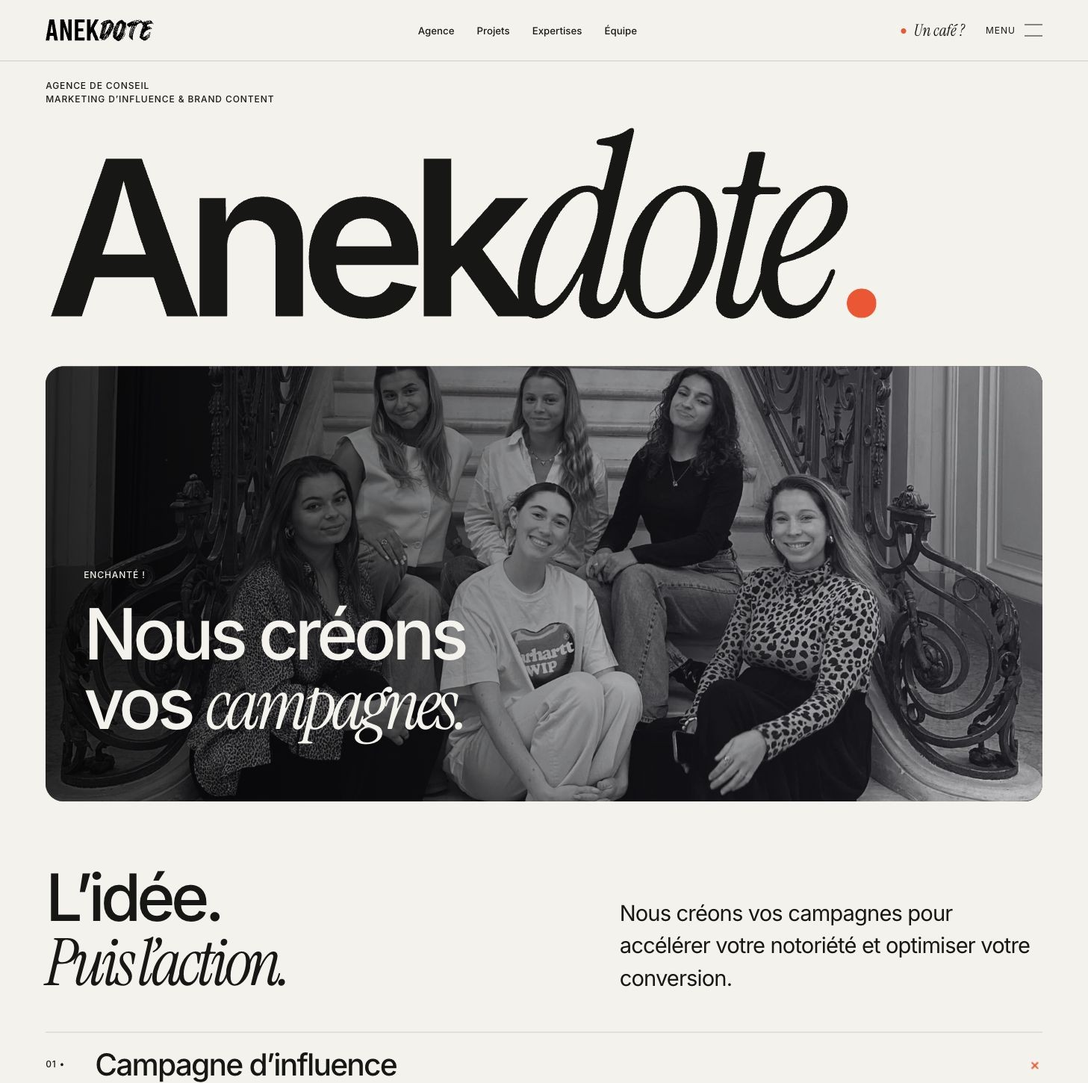
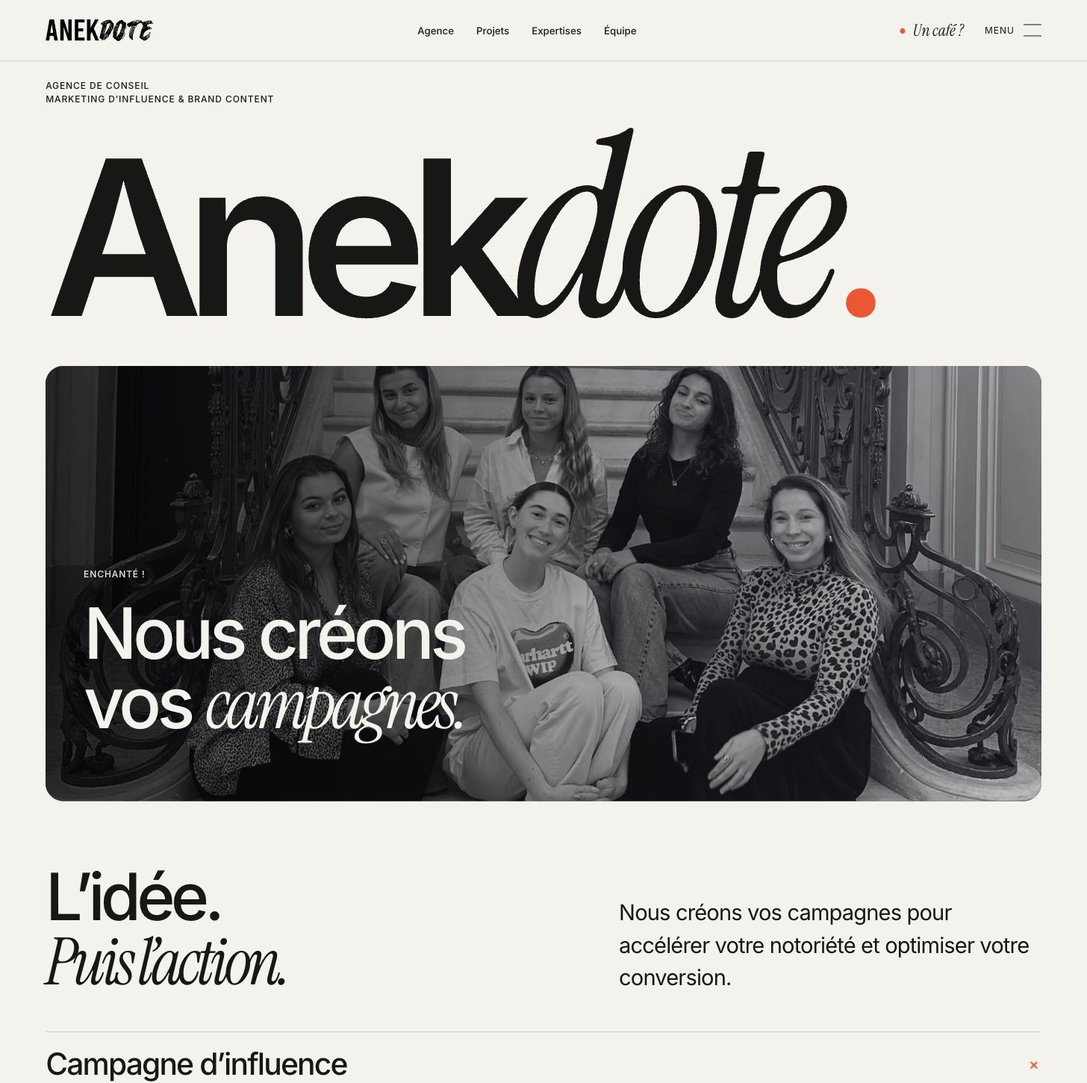
Retirer les six index de l’accordéon d’accueil et aligner les titres

diff --git a/index.html b/index.html
@@ -1,1 +1,1 @@
-<!doctype html><html lang="fr"><head><meta charset="utf-8"><meta name="viewport" content="width=device-width, initial-scale=1"><meta name="theme-color" content="#f4f2eb"><title>Anekdote | Agence de conseil en Marketing d&#x27;Influence &amp; Brand Content</title><meta name="description" content="Anekdote crée vos campagnes d&#x27;influence et de brand content pour accélérer votre notoriété et optimiser votre conversion."><link rel="canonical" href="https://www.anekdote.fr/"><meta property="og:title" content="Anekdote | Agence de conseil en Marketing d&#x27;Influence &amp; Brand Content"><meta property="og:description" content="Anekdote crée vos campagnes d&#x27;influence et de brand content pour accélérer votre notoriété et optimiser votre conversion."><meta property="og:type" content="website"><meta property="og:url" content="https://www.anekdote.fr/"><link rel="stylesheet" href="css/fonts.css"><link rel="stylesheet" href="css/variables.css"><link rel="stylesheet" href="css/reset.css"><link rel="stylesheet" href="css/typography.css"><link rel="stylesheet" href="css/layout.css"><link rel="stylesheet" href="css/components.css"><link rel="stylesheet" href="css/animations.css"><link rel="stylesheet" href="css/responsive.css"><link rel="stylesheet" href="css/editorial.css"><noscript><link rel="stylesheet" href="css/no-script.css"></noscript><link rel="icon" href="assets/brand/favicon.svg" type="image/svg+xml"><script type="application/ld+json">{"@context": "https://schema.org", "@type": "Organization", "name": "Anekdote", "url": "https://www.anekdote.fr", "address": {"@type": "PostalAddress", "streetAddress": "29 rue de Mogador", "postalCode": "75009", "addressLocality": "Paris", "addressCountry": "FR"}, "sameAs": ["https://www.instagram.com/anekdotefr/", "https://linkedin.com/company/anekdote-influence"]}</script><script defer src="js/navigation.js"></script><script defer src="js/animations.js"></script><script defer src="js/projects.js"></script><script defer src="js/main.js"></script><script defer src="js/editorial.js"></script></head><body><a class="skip-link" href="#main">Aller au contenu</a><div class="reading-progress" aria-hidden="true"></div><header class="site-header"><a class="logo" href="index.html" aria-label="Anekdote, accueil"><img src="assets/brand/anekdote-logo.svg" alt="Anekdote" width="145" height="34"></a><nav class="desktop-nav" aria-label="Navigation principale"><a href="agence/index.html">Agence</a><a href="hub-projets/index.html">Projets</a><a href="expertises/index.html">Expertises</a><a href="equipe/index.html">Équipe</a></nav><div class="header-actions"><a class="coffee" href="contact/index.html">Un café ?</a><button class="menu-toggle" aria-controls="navigation-dialog" aria-expanded="false" aria-label="Ouvrir le menu" data-menu-open><span>Menu</span><span class="menu-icon" aria-hidden="true"><i></i><i></i></span></button></div></header><dialog class="nav-dialog" id="navigation-dialog" aria-label="Navigation"><div class="nav-dialog-head"><a class="logo" href="index.html"><img src="assets/brand/anekdote-logo.svg" alt="Anekdote" width="145" height="34"></a><button class="nav-close" data-menu-close>Fermer ×</button></div><div class="nav-grid"><nav class="nav-primary" aria-label="Toutes les pages"><a href="index.html">Accueil<small>01 •</small></a><a href="agence/index.html">Agence<small>02 •</small></a><a href="hub-projets/index.html">Projets<small>03 •</small></a><a href="expertises/index.html">Expertises<small>04 •</small></a><a href="equipe/index.html">Équipe<small>05 •</small></a><a href="talents/index.html">Talents<small>06 •</small></a><a href="contact/index.html">Contact<small>07 •</small></a></nav><nav class="nav-secondary" aria-label="Expertises et réseaux"><p class="eyebrow">Nos expertises</p><a href="campagne-dinfluence/index.html">Campagne d’influence</a><a href="strategie/index.html">Stratégie</a><a href="evenements/index.html">Évènements</a><a href="brand-content/index.html">Brand Content</a><a href="rse-corporate/index.html">RSE / Corporate</a><a href="performance-affiliation/index.html">Performance / Affiliation</a><p class="eyebrow">Retrouvons-nous</p><a href="https://www.instagram.com/anekdotefr/" target="_blank" rel="noopener">Instagram</a><a href="https://linkedin.com/company/anekdote-influence" target="_blank" rel="noopener">LinkedIn</a><p class="eyebrow">29 rue de Mogador<br>75009 Paris</p></nav></div></dialog><main id="main"><section class="masthead"><div class="masthead-meta"><p class="eyebrow">Agence de conseil<br>Marketing d’influence & Brand Content</p></div><h1 class="wordmark" aria-label="Anekdote">Anek<span class="italic">dote</span><span class="dot">.</span></h1></section><section class="company-stage"><picture class=""><img src="assets/images/agence/agence-ambiance-1.webp" srcset="assets/images/agence/agence-ambiance-1-900.webp 900w, assets/images/agence/agence-ambiance-1-480.webp 479w, assets/images/agence/agence-ambiance-1.webp 1920w" sizes="(max-width: 800px) 100vw, 90vw" alt="L’équipe Anekdote dans un escalier parisien" width="1920" height="1227" loading="eager" decoding="async" fetchpriority="high"></picture><div class="company-overlay"><p class="eyebrow">Enchanté !</p><h2>Nous créons<br>vos <span class="italic">campagnes.</span></h2></div></section><section class="section home-services"><div class="home-services-heading"><div><h2 class="section-title">L’idée.<br><span class="italic">Puis l’action.</span></h2></div><p class="lead">Nous créons vos campagnes pour accélérer votre notoriété et optimiser votre conversion.</p></div><div class="expertise-accordion home-accordion"><details open><summary><span class="eyebrow">01 •</span><h3>Campagne d’influence</h3><span class="accordion-symbol" aria-hidden="true">+</span></summary><div class="expertise-answer"><p>Nous développons un storytelling et un casting sur-mesure pour adresser les bons messages à votre cœur de cible.</p><a class="text-link" href="campagne-dinfluence/index.html">Découvrir cette expertise<span class="link-symbol" aria-hidden="true">+</span></a></div></details><details><summary><span class="eyebrow">02 •</span><h3>Stratégie</h3><span class="accordion-symbol" aria-hidden="true">+</span></summary><div class="expertise-answer"><p>Nous vous accompagnons en fil rouge pour développer votre stratégie et rendre votre marque visible sur les réseaux sociaux.</p><a class="text-link" href="strategie/index.html">Découvrir cette expertise<span class="link-symbol" aria-hidden="true">+</span></a></div></details><details><summary><span class="eyebrow">03 •</span><h3>Évènements</h3><span class="accordion-symbol" aria-hidden="true">+</span></summary><div class="expertise-answer"><p>Nous construisons vos événements sur-mesure et avec une touche d’originalité pour qu’ils soient mémorables.</p><a class="text-link" href="evenements/index.html">Découvrir cette expertise<span class="link-symbol" aria-hidden="true">+</span></a></div></details><details><summary><span class="eyebrow">04 •</span><h3>Brand Content</h3><span class="accordion-symbol" aria-hidden="true">+</span></summary><div class="expertise-answer"><p>Notre pôle de Brand Content « L’atelier » ! C’est l’adresse incontournable pour animer vos communautés par la création et la production de votre contenu de marque.</p><a class="text-link" href="brand-content/index.html">Découvrir cette expertise<span class="link-symbol" aria-hidden="true">+</span></a></div></details><details><summary><span class="eyebrow">05 •</span><h3>RSE / Corporate</h3><span class="accordion-symbol" aria-hidden="true">+</span></summary><div class="expertise-answer"><p>Chez Anekdote, nous croyons fermement que la réussite ne se mesure pas uniquement en termes de chiffres, mais aussi par l’impact positif de la campagne.</p><a class="text-link" href="rse-corporate/index.html">Découvrir cette expertise<span class="link-symbol" aria-hidden="true">+</span></a></div></details><details><summary><span class="eyebrow">06 •</span><h3>Performance / Affiliation</h3><span class="accordion-symbol" aria-hidden="true">+</span></summary><div class="expertise-answer"><p>Construire des stratégies d’influence performance avec une approche Roiste et Data Driven.</p><a class="text-link" href="performance-affiliation/index.html">Découvrir cette expertise<span class="link-symbol" aria-hidden="true">+</span></a></div></details></div></section><section class="section clients"><div class="client-intro"><h2>Nous vous adorons,<br><span class="italic">c’est réciproque.</span></h2><p>Nous avons plus de 50 partenaires qui nous font confiance dans la beauté, la mode, la tech/app, la food et le retail.</p></div><div class="marquee" data-marquee><div class="marquee-controls"><span class="eyebrow">Ils nous font confiance</span></div><div class="marquee-row"><div class="marquee-track"><div class="marquee-group"><picture class=""><img src="assets/images/home/home-visuel-27.svg" alt="Air France" loading="lazy" decoding="async"></picture><picture class=""><img src="assets/images/home/home-visuel-29.svg" alt="L’Oreal" loading="lazy" decoding="async"></picture><picture class=""><img src="assets/images/home/home-visuel-31.svg" alt="Wethenew" loading="lazy" decoding="async"></picture><picture class=""><img src="assets/images/home/home-visuel-33.svg" alt="Benefit" loading="lazy" decoding="async"></picture><picture class=""><img src="assets/images/home/home-visuel-35.svg" alt="Vichy" loading="lazy" decoding="async"></picture><picture class=""><img src="assets/images/home/home-visuel-37.svg" alt="Dyson" loading="lazy" decoding="async"></picture><picture class=""><img src="assets/images/home/home-visuel-39.svg" alt="Babbel" loading="lazy" decoding="async"></picture><picture class=""><img src="assets/images/home/home-visuel-41.svg" alt="LVMH" loading="lazy" decoding="async"></picture><picture class=""><img src="assets/images/home/home-visuel-58.svg" alt="Milka" loading="lazy" decoding="async"></picture><picture class=""><img src="assets/images/home/home-visuel-60.svg" alt="Sephora" loading="lazy" decoding="async"></picture><picture class=""><img src="assets/images/home/home-visuel-63.svg" alt="Fabletics" loading="lazy" decoding="async"></picture></div><div class="marquee-group" aria-hidden="true"><picture class=""><img src="assets/images/home/home-visuel-27.svg" alt="" loading="lazy" decoding="async"></picture><picture class=""><img src="assets/images/home/home-visuel-29.svg" alt="" loading="lazy" decoding="async"></picture><picture class=""><img src="assets/images/home/home-visuel-31.svg" alt="" loading="lazy" decoding="async"></picture><picture class=""><img src="assets/images/home/home-visuel-33.svg" alt="" loading="lazy" decoding="async"></picture><picture class=""><img src="assets/images/home/home-visuel-35.svg" alt="" loading="lazy" decoding="async"></picture><picture class=""><img src="assets/images/home/home-visuel-37.svg" alt="" loading="lazy" decoding="async"></picture><picture class=""><img src="assets/images/home/home-visuel-39.svg" alt="" loading="lazy" decoding="async"></picture><picture class=""><img src="assets/images/home/home-visuel-41.svg" alt="" loading="lazy" decoding="async"></picture><picture class=""><img src="assets/images/home/home-visuel-58.svg" alt="" loading="lazy" decoding="async"></picture><picture class=""><img src="assets/images/home/home-visuel-60.svg" alt="" loading="lazy" decoding="async"></picture><picture class=""><img src="assets/images/home/home-visuel-63.svg" alt="" loading="lazy" decoding="async"></picture></div></div></div><div class="marquee-row reverse"><div class="marquee-track"><div class="marquee-group"><picture class=""><img src="assets/images/home/home-visuel-28.svg" alt="Choose" loading="lazy" decoding="async"></picture><picture class=""><img src="assets/images/home/home-visuel-30.svg" alt="Air Up" loading="lazy" decoding="async"></picture><picture class=""><img src="assets/images/home/home-visuel-32.svg" alt="Oceansapart" loading="lazy" decoding="async"></picture><picture class=""><img src="assets/images/home/home-visuel-34.svg" alt="My Origines" loading="lazy" decoding="async"></picture><picture class=""><img src="assets/images/home/home-visuel-36.svg" alt="Carrefour" loading="lazy" decoding="async"></picture><picture class=""><img src="assets/images/home/home-visuel-38.svg" alt="Monsieur Moustache" loading="lazy" decoding="async"></picture><picture class=""><img src="assets/images/home/home-visuel-40.svg" alt="les eclaireuses" loading="lazy" decoding="async"></picture><picture class=""><img src="assets/images/home/home-visuel-57.svg" alt="Oh My Cream" loading="lazy" decoding="async"></picture><picture class=""><img src="assets/images/home/home-visuel-59.svg" alt="Savage x Fenty" loading="lazy" decoding="async"></picture><picture class=""><img src="assets/images/home/home-visuel-62.svg" alt="Etam" loading="lazy" decoding="async"></picture></div><div class="marquee-group" aria-hidden="true"><picture class=""><img src="assets/images/home/home-visuel-28.svg" alt="" loading="lazy" decoding="async"></picture><picture class=""><img src="assets/images/home/home-visuel-30.svg" alt="" loading="lazy" decoding="async"></picture><picture class=""><img src="assets/images/home/home-visuel-32.svg" alt="" loading="lazy" decoding="async"></picture><picture class=""><img src="assets/images/home/home-visuel-34.svg" alt="" loading="lazy" decoding="async"></picture><picture class=""><img src="assets/images/home/home-visuel-36.svg" alt="" loading="lazy" decoding="async"></picture><picture class=""><img src="assets/images/home/home-visuel-38.svg" alt="" loading="lazy" decoding="async"></picture><picture class=""><img src="assets/images/home/home-visuel-40.svg" alt="" loading="lazy" decoding="async"></picture><picture class=""><img src="assets/images/home/home-visuel-57.svg" alt="" loading="lazy" decoding="async"></picture><picture class=""><img src="assets/images/home/home-visuel-59.svg" alt="" loading="lazy" decoding="async"></picture><picture class=""><img src="assets/images/home/home-visuel-62.svg" alt="" loading="lazy" decoding="async"></picture></div></div></div></div></section><section class="section home-agency"><div class="home-agency-photo media-frame reveal"><picture class=""><img src="assets/images/agence/agence-visuel-4.webp" srcset="assets/images/agence/agence-visuel-4-480.webp 480w, assets/images/agence/agence-visuel-4.webp 680w" sizes="(max-width: 800px) 100vw, 90vw" alt="Un moment partagé par l’équipe Anekdote" width="680" height="680" loading="lazy" decoding="async"></picture></div><div class="home-agency-copy"><h2 class="section-title">Une équipe<br><span class="italic">passionnée.</span></h2><p class="lead">L’échange est notre moteur, le partage est notre super-force, et la positivité est notre arme secrète.</p></div></section><section class="section proof"><div class="proof-copy"><h2 class="section-title">La créativité.<br><span class="italic">Et son impact.</span></h2><p>Une équipe passionnée pour des campagnes sur-mesure et performantes.</p></div><div class="proof-kpis"><a class="proof-row" href="projets/concert-aya-nakamura-x-ghd-x-juliette-has-a-gun/index.html"><strong><span class="sr-only">7.2M</span><span aria-hidden="true" data-count="7.2" data-decimals="1" data-suffix="M" data-separator=".">7.2M</span></strong><p>de vues au total<span>Concert Aya Nakamura x GHD x Juliette Has A Gun</span></p></a><a class="proof-row" href="projets/lancement-k-biocyte-event-influence/index.html"><strong><span class="sr-only">1,73 M</span><span aria-hidden="true" data-count="1.73" data-decimals="2" data-suffix=" M" data-separator=",">1,73 M</span></strong><p>de reach<span>LANCEMENT K-BIOCYTE : Event influence</span></p></a><a class="proof-row" href="projets/biocyte-x-solar-metrics-influence-affiliation/index.html"><strong><span class="sr-only">31 377</span><span aria-hidden="true" data-count="31377" data-decimals="0" data-suffix="" data-separator=" ">31 377</span></strong><p>clics sur lien<span>BIOCYTE x SOLAR METRICS | Influence &amp; affiliation</span></p></a></div></section></main><footer class="site-footer"><a href="contact/index.html" class="footer-invitation"><h2>Un café ?</h2><span class="circle-link" aria-hidden="true">↗</span></a><div class="footer-grid"><div><p class="eyebrow">Localisation</p><p>29 rue de Mogador,<br>75009 Paris</p><a href="contact/index.html">Contactez-nous</a></div><div><p class="eyebrow">L’agence</p><a href="agence/index.html">Agence</a><a href="hub-projets/index.html">Projets</a><a href="equipe/index.html">Équipe</a><a href="talents/index.html">Talents</a></div><div><p class="eyebrow">Expertises</p><a href="campagne-dinfluence/index.html">Campagne d’influence</a><a href="strategie/index.html">Stratégie</a><a href="evenements/index.html">Évènements</a><a href="brand-content/index.html">Brand Content</a><a href="rse-corporate/index.html">RSE / Corporate</a><a href="performance-affiliation/index.html">Performance / Affiliation</a></div><div><p class="eyebrow">Suivez-nous</p><a href="https://www.instagram.com/anekdotefr/" target="_blank" rel="noopener">Instagram</a><a href="https://linkedin.com/company/anekdote-influence" target="_blank" rel="noopener">LinkedIn</a><p class="eyebrow" style="margin-top:25px">Légal</p><a href="mentions-legales/index.html">Mentions légales</a><a href="politique-de-confidentialite/index.html">Confidentialité</a></div></div><div class="footer-bottom"><span>© Anekdote</span><span class="footer-partner">En partenariat avec <img src="assets/brand/arpp-umicc.webp" alt="ARPP et UMICC" width="216" height="28" loading="lazy"></span><button class="back-top" data-top>Retour en haut ↑</button></div><div class="footer-brand" aria-hidden="true"><img src="assets/brand/anekdote-logo.svg" alt="" width="1162" height="270" loading="lazy"></div></footer><dialog id="video-dialog" class="video-dialog" aria-label="Vidéo"><div class="video-dialog-top"><span data-video-title>Le film Anekdote</span><button class="video-dialog-close" data-video-close>Fermer ×</button></div><video playsinline controls preload="none"></video></dialog></body></html>
+<!doctype html><html lang="fr"><head><meta charset="utf-8"><meta name="viewport" content="width=device-width, initial-scale=1"><meta name="theme-color" content="#f4f2eb"><title>Anekdote | Agence de conseil en Marketing d&#x27;Influence &amp; Brand Content</title><meta name="description" content="Anekdote crée vos campagnes d&#x27;influence et de brand content pour accélérer votre notoriété et optimiser votre conversion."><link rel="canonical" href="https://www.anekdote.fr/"><meta property="og:title" content="Anekdote | Agence de conseil en Marketing d&#x27;Influence &amp; Brand Content"><meta property="og:description" content="Anekdote crée vos campagnes d&#x27;influence et de brand content pour accélérer votre notoriété et optimiser votre conversion."><meta property="og:type" content="website"><meta property="og:url" content="https://www.anekdote.fr/"><link rel="stylesheet" href="css/fonts.css"><link rel="stylesheet" href="css/variables.css"><link rel="stylesheet" href="css/reset.css"><link rel="stylesheet" href="css/typography.css"><link rel="stylesheet" href="css/layout.css"><link rel="stylesheet" href="css/components.css"><link rel="stylesheet" href="css/animations.css"><link rel="stylesheet" href="css/responsive.css"><link rel="stylesheet" href="css/editorial.css"><noscript><link rel="stylesheet" href="css/no-script.css"></noscript><link rel="icon" href="assets/brand/favicon.svg" type="image/svg+xml"><script type="application/ld+json">{"@context": "https://schema.org", "@type": "Organization", "name": "Anekdote", "url": "https://www.anekdote.fr", "address": {"@type": "PostalAddress", "streetAddress": "29 rue de Mogador", "postalCode": "75009", "addressLocality": "Paris", "addressCountry": "FR"}, "sameAs": ["https://www.instagram.com/anekdotefr/", "https://linkedin.com/company/anekdote-influence"]}</script><script defer src="js/navigation.js"></script><script defer src="js/animations.js"></script><script defer src="js/projects.js"></script><script defer src="js/main.js"></script><script defer src="js/editorial.js"></script></head><body><a class="skip-link" href="#main">Aller au contenu</a><div class="reading-progress" aria-hidden="true"></div><header class="site-header"><a class="logo" href="index.html" aria-label="Anekdote, accueil"><img src="assets/brand/anekdote-logo.svg" alt="Anekdote" width="145" height="34"></a><nav class="desktop-nav" aria-label="Navigation principale"><a href="agence/index.html">Agence</a><a href="hub-projets/index.html">Projets</a><a href="expertises/index.html">Expertises</a><a href="equipe/index.html">Équipe</a></nav><div class="header-actions"><a class="coffee" href="contact/index.html">Un café ?</a><button class="menu-toggle" aria-controls="navigation-dialog" aria-expanded="false" aria-label="Ouvrir le menu" data-menu-open><span>Menu</span><span class="menu-icon" aria-hidden="true"><i></i><i></i></span></button></div></header><dialog class="nav-dialog" id="navigation-dialog" aria-label="Navigation"><div class="nav-dialog-head"><a class="logo" href="index.html"><img src="assets/brand/anekdote-logo.svg" alt="Anekdote" width="145" height="34"></a><button class="nav-close" data-menu-close>Fermer ×</button></div><div class="nav-grid"><nav class="nav-primary" aria-label="Toutes les pages"><a href="index.html">Accueil<small>01 •</small></a><a href="agence/index.html">Agence<small>02 •</small></a><a href="hub-projets/index.html">Projets<small>03 •</small></a><a href="expertises/index.html">Expertises<small>04 •</small></a><a href="equipe/index.html">Équipe<small>05 •</small></a><a href="talents/index.html">Talents<small>06 •</small></a><a href="contact/index.html">Contact<small>07 •</small></a></nav><nav class="nav-secondary" aria-label="Expertises et réseaux"><p class="eyebrow">Nos expertises</p><a href="campagne-dinfluence/index.html">Campagne d’influence</a><a href="strategie/index.html">Stratégie</a><a href="evenements/index.html">Évènements</a><a href="brand-content/index.html">Brand Content</a><a href="rse-corporate/index.html">RSE / Corporate</a><a href="performance-affiliation/index.html">Performance / Affiliation</a><p class="eyebrow">Retrouvons-nous</p><a href="https://www.instagram.com/anekdotefr/" target="_blank" rel="noopener">Instagram</a><a href="https://linkedin.com/company/anekdote-influence" target="_blank" rel="noopener">LinkedIn</a><p class="eyebrow">29 rue de Mogador<br>75009 Paris</p></nav></div></dialog><main id="main"><section class="masthead"><div class="masthead-meta"><p class="eyebrow">Agence de conseil<br>Marketing d’influence & Brand Content</p></div><h1 class="wordmark" aria-label="Anekdote">Anek<span class="italic">dote</span><span class="dot">.</span></h1></section><section class="company-stage"><picture class=""><img src="assets/images/agence/agence-ambiance-1.webp" srcset="assets/images/agence/agence-ambiance-1-900.webp 900w, assets/images/agence/agence-ambiance-1-480.webp 479w, assets/images/agence/agence-ambiance-1.webp 1920w" sizes="(max-width: 800px) 100vw, 90vw" alt="L’équipe Anekdote dans un escalier parisien" width="1920" height="1227" loading="eager" decoding="async" fetchpriority="high"></picture><div class="company-overlay"><p class="eyebrow">Enchanté !</p><h2>Nous créons<br>vos <span class="italic">campagnes.</span></h2></div></section><section class="section home-services"><div class="home-services-heading"><div><h2 class="section-title">L’idée.<br><span class="italic">Puis l’action.</span></h2></div><p class="lead">Nous créons vos campagnes pour accélérer votre notoriété et optimiser votre conversion.</p></div><div class="expertise-accordion home-accordion"><details open><summary><h3>Campagne d’influence</h3><span class="accordion-symbol" aria-hidden="true">+</span></summary><div class="expertise-answer"><p>Nous développons un storytelling et un casting sur-mesure pour adresser les bons messages à votre cœur de cible.</p><a class="text-link" href="campagne-dinfluence/index.html">Découvrir cette expertise<span class="link-symbol" aria-hidden="true">+</span></a></div></details><details><summary><h3>Stratégie</h3><span class="accordion-symbol" aria-hidden="true">+</span></summary><div class="expertise-answer"><p>Nous vous accompagnons en fil rouge pour développer votre stratégie et rendre votre marque visible sur les réseaux sociaux.</p><a class="text-link" href="strategie/index.html">Découvrir cette expertise<span class="link-symbol" aria-hidden="true">+</span></a></div></details><details><summary><h3>Évènements</h3><span class="accordion-symbol" aria-hidden="true">+</span></summary><div class="expertise-answer"><p>Nous construisons vos événements sur-mesure et avec une touche d’originalité pour qu’ils soient mémorables.</p><a class="text-link" href="evenements/index.html">Découvrir cette expertise<span class="link-symbol" aria-hidden="true">+</span></a></div></details><details><summary><h3>Brand Content</h3><span class="accordion-symbol" aria-hidden="true">+</span></summary><div class="expertise-answer"><p>Notre pôle de Brand Content « L’atelier » ! C’est l’adresse incontournable pour animer vos communautés par la création et la production de votre contenu de marque.</p><a class="text-link" href="brand-content/index.html">Découvrir cette expertise<span class="link-symbol" aria-hidden="true">+</span></a></div></details><details><summary><h3>RSE / Corporate</h3><span class="accordion-symbol" aria-hidden="true">+</span></summary><div class="expertise-answer"><p>Chez Anekdote, nous croyons fermement que la réussite ne se mesure pas uniquement en termes de chiffres, mais aussi par l’impact positif de la campagne.</p><a class="text-link" href="rse-corporate/index.html">Découvrir cette expertise<span class="link-symbol" aria-hidden="true">+</span></a></div></details><details><summary><h3>Performance / Affiliation</h3><span class="accordion-symbol" aria-hidden="true">+</span></summary><div class="expertise-answer"><p>Construire des stratégies d’influence performance avec une approche Roiste et Data Driven.</p><a class="text-link" href="performance-affiliation/index.html">Découvrir cette expertise<span class="link-symbol" aria-hidden="true">+</span></a></div></details></div></section><section class="section clients"><div class="client-intro"><h2>Nous vous adorons,<br><span class="italic">c’est réciproque.</span></h2><p>Nous avons plus de 50 partenaires qui nous font confiance dans la beauté, la mode, la tech/app, la food et le retail.</p></div><div class="marquee" data-marquee><div class="marquee-controls"><span class="eyebrow">Ils nous font confiance</span></div><div class="marquee-row"><div class="marquee-track"><div class="marquee-group"><picture class=""><img src="assets/images/home/home-visuel-27.svg" alt="Air France" loading="lazy" decoding="async"></picture><picture class=""><img src="assets/images/home/home-visuel-29.svg" alt="L’Oreal" loading="lazy" decoding="async"></picture><picture class=""><img src="assets/images/home/home-visuel-31.svg" alt="Wethenew" loading="lazy" decoding="async"></picture><picture class=""><img src="assets/images/home/home-visuel-33.svg" alt="Benefit" loading="lazy" decoding="async"></picture><picture class=""><img src="assets/images/home/home-visuel-35.svg" alt="Vichy" loading="lazy" decoding="async"></picture><picture class=""><img src="assets/images/home/home-visuel-37.svg" alt="Dyson" loading="lazy" decoding="async"></picture><picture class=""><img src="assets/images/home/home-visuel-39.svg" alt="Babbel" loading="lazy" decoding="async"></picture><picture class=""><img src="assets/images/home/home-visuel-41.svg" alt="LVMH" loading="lazy" decoding="async"></picture><picture class=""><img src="assets/images/home/home-visuel-58.svg" alt="Milka" loading="lazy" decoding="async"></picture><picture class=""><img src="assets/images/home/home-visuel-60.svg" alt="Sephora" loading="lazy" decoding="async"></picture><picture class=""><img src="assets/images/home/home-visuel-63.svg" alt="Fabletics" loading="lazy" decoding="async"></picture></div><div class="marquee-group" aria-hidden="true"><picture class=""><img src="assets/images/home/home-visuel-27.svg" alt="" loading="lazy" decoding="async"></picture><picture class=""><img src="assets/images/home/home-visuel-29.svg" alt="" loading="lazy" decoding="async"></picture><picture class=""><img src="assets/images/home/home-visuel-31.svg" alt="" loading="lazy" decoding="async"></picture><picture class=""><img src="assets/images/home/home-visuel-33.svg" alt="" loading="lazy" decoding="async"></picture><picture class=""><img src="assets/images/home/home-visuel-35.svg" alt="" loading="lazy" decoding="async"></picture><picture class=""><img src="assets/images/home/home-visuel-37.svg" alt="" loading="lazy" decoding="async"></picture><picture class=""><img src="assets/images/home/home-visuel-39.svg" alt="" loading="lazy" decoding="async"></picture><picture class=""><img src="assets/images/home/home-visuel-41.svg" alt="" loading="lazy" decoding="async"></picture><picture class=""><img src="assets/images/home/home-visuel-58.svg" alt="" loading="lazy" decoding="async"></picture><picture class=""><img src="assets/images/home/home-visuel-60.svg" alt="" loading="lazy" decoding="async"></picture><picture class=""><img src="assets/images/home/home-visuel-63.svg" alt="" loading="lazy" decoding="async"></picture></div></div></div><div class="marquee-row reverse"><div class="marquee-track"><div class="marquee-group"><picture class=""><img src="assets/images/home/home-visuel-28.svg" alt="Choose" loading="lazy" decoding="async"></picture><picture class=""><img src="assets/images/home/home-visuel-30.svg" alt="Air Up" loading="lazy" decoding="async"></picture><picture class=""><img src="assets/images/home/home-visuel-32.svg" alt="Oceansapart" loading="lazy" decoding="async"></picture><picture class=""><img src="assets/images/home/home-visuel-34.svg" alt="My Origines" loading="lazy" decoding="async"></picture><picture class=""><img src="assets/images/home/home-visuel-36.svg" alt="Carrefour" loading="lazy" decoding="async"></picture><picture class=""><img src="assets/images/home/home-visuel-38.svg" alt="Monsieur Moustache" loading="lazy" decoding="async"></picture><picture class=""><img src="assets/images/home/home-visuel-40.svg" alt="les eclaireuses" loading="lazy" decoding="async"></picture><picture class=""><img src="assets/images/home/home-visuel-57.svg" alt="Oh My Cream" loading="lazy" decoding="async"></picture><picture class=""><img src="assets/images/home/home-visuel-59.svg" alt="Savage x Fenty" loading="lazy" decoding="async"></picture><picture class=""><img src="assets/images/home/home-visuel-62.svg" alt="Etam" loading="lazy" decoding="async"></picture></div><div class="marquee-group" aria-hidden="true"><picture class=""><img src="assets/images/home/home-visuel-28.svg" alt="" loading="lazy" decoding="async"></picture><picture class=""><img src="assets/images/home/home-visuel-30.svg" alt="" loading="lazy" decoding="async"></picture><picture class=""><img src="assets/images/home/home-visuel-32.svg" alt="" loading="lazy" decoding="async"></picture><picture class=""><img src="assets/images/home/home-visuel-34.svg" alt="" loading="lazy" decoding="async"></picture><picture class=""><img src="assets/images/home/home-visuel-36.svg" alt="" loading="lazy" decoding="async"></picture><picture class=""><img src="assets/images/home/home-visuel-38.svg" alt="" loading="lazy" decoding="async"></picture><picture class=""><img src="assets/images/home/home-visuel-40.svg" alt="" loading="lazy" decoding="async"></picture><picture class=""><img src="assets/images/home/home-visuel-57.svg" alt="" loading="lazy" decoding="async"></picture><picture class=""><img src="assets/images/home/home-visuel-59.svg" alt="" loading="lazy" decoding="async"></picture><picture class=""><img src="assets/images/home/home-visuel-62.svg" alt="" loading="lazy" decoding="async"></picture></div></div></div></div></section><section class="section home-agency"><div class="home-agency-photo media-frame reveal"><picture class=""><img src="assets/images/agence/agence-visuel-4.webp" srcset="assets/images/agence/agence-visuel-4-480.webp 480w, assets/images/agence/agence-visuel-4.webp 680w" sizes="(max-width: 800px) 100vw, 90vw" alt="Un moment partagé par l’équipe Anekdote" width="680" height="680" loading="lazy" decoding="async"></picture></div><div class="home-agency-copy"><h2 class="section-title">Une équipe<br><span class="italic">passionnée.</span></h2><p class="lead">L’échange est notre moteur, le partage est notre super-force, et la positivité est notre arme secrète.</p></div></section><section class="section proof"><div class="proof-copy"><h2 class="section-title">La créativité.<br><span class="italic">Et son impact.</span></h2><p>Une équipe passionnée pour des campagnes sur-mesure et performantes.</p></div><div class="proof-kpis"><a class="proof-row" href="projets/concert-aya-nakamura-x-ghd-x-juliette-has-a-gun/index.html"><strong><span class="sr-only">7.2M</span><span aria-hidden="true" data-count="7.2" data-decimals="1" data-suffix="M" data-separator=".">7.2M</span></strong><p>de vues au total<span>Concert Aya Nakamura x GHD x Juliette Has A Gun</span></p></a><a class="proof-row" href="projets/lancement-k-biocyte-event-influence/index.html"><strong><span class="sr-only">1,73 M</span><span aria-hidden="true" data-count="1.73" data-decimals="2" data-suffix=" M" data-separator=",">1,73 M</span></strong><p>de reach<span>LANCEMENT K-BIOCYTE : Event influence</span></p></a><a class="proof-row" href="projets/biocyte-x-solar-metrics-influence-affiliation/index.html"><strong><span class="sr-only">31 377</span><span aria-hidden="true" data-count="31377" data-decimals="0" data-suffix="" data-separator=" ">31 377</span></strong><p>clics sur lien<span>BIOCYTE x SOLAR METRICS | Influence &amp; affiliation</span></p></a></div></section></main><footer class="site-footer"><a href="contact/index.html" class="footer-invitation"><h2>Un café ?</h2><span class="circle-link" aria-hidden="true">↗</span></a><div class="footer-grid"><div><p class="eyebrow">Localisation</p><p>29 rue de Mogador,<br>75009 Paris</p><a href="contact/index.html">Contactez-nous</a></div><div><p class="eyebrow">L’agence</p><a href="agence/index.html">Agence</a><a href="hub-projets/index.html">Projets</a><a href="equipe/index.html">Équipe</a><a href="talents/index.html">Talents</a></div><div><p class="eyebrow">Expertises</p><a href="campagne-dinfluence/index.html">Campagne d’influence</a><a href="strategie/index.html">Stratégie</a><a href="evenements/index.html">Évènements</a><a href="brand-content/index.html">Brand Content</a><a href="rse-corporate/index.html">RSE / Corporate</a><a href="performance-affiliation/index.html">Performance / Affiliation</a></div><div><p class="eyebrow">Suivez-nous</p><a href="https://www.instagram.com/anekdotefr/" target="_blank" rel="noopener">Instagram</a><a href="https://linkedin.com/company/anekdote-influence" target="_blank" rel="noopener">LinkedIn</a><p class="eyebrow" style="margin-top:25px">Légal</p><a href="mentions-legales/index.html">Mentions légales</a><a href="politique-de-confidentialite/index.html">Confidentialité</a></div></div><div class="footer-bottom"><span>© Anekdote</span><span class="footer-partner">En partenariat avec <img src="assets/brand/arpp-umicc.webp" alt="ARPP et UMICC" width="216" height="28" loading="lazy"></span><button class="back-top" data-top>Retour en haut ↑</button></div><div class="footer-brand" aria-hidden="true"><img src="assets/brand/anekdote-logo.svg" alt="" width="1162" height="270" loading="lazy"></div></footer><dialog id="video-dialog" class="video-dialog" aria-label="Vidéo"><div class="video-dialog-top"><span data-video-title>Le film Anekdote</span><button class="video-dialog-close" data-video-close>Fermer ×</button></div><video playsinline controls preload="none"></video></dialog></body></html>

diff --git a/css/editorial.css b/css/editorial.css
@@ -211,3 +211,8 @@
  .solar-measures li{font-size:.9rem}
 }
 @media(prefers-reduced-motion:reduce){.manifest-deck .deck-stage{gap:38px}}
+
+/* Home review: expertise titles start at the section gutter without an index. */
+.home-accordion summary{grid-template-columns:minmax(0,1fr) 40px}
+.home-accordion .expertise-answer{padding-left:0}
+@media(max-width:800px){.home-accordion summary{grid-template-columns:minmax(0,1fr) 25px}}

diff --git a/scripts/build.py b/scripts/build.py
@@ -141,11 +141,11 @@ def deck(slides,label,cls='',next_only=False,labels=True,autoplay=False):
  h+='</div><div class="deck-arrows"><span class="deck-status" aria-live="polite" aria-atomic="true" data-deck-status>1 / '+str(len(slides))+'</span><button type="button" data-deck-prev aria-label="Page précédente">←</button><button type="button" data-deck-next aria-label="Page suivante">→</button></div></div></div>'
  return h
 
-def accordion(cls=''):
+def accordion(cls='',numbered=True):
  h='<div class="expertise-accordion '+cls+'">'
  for i,(label,key) in enumerate(SERVICES):
   desc=text(soup(key).select_one('.page-header-banner-baseline'))
-  h+='<details'+(' open' if i==0 else '')+'><summary><span class="eyebrow">'+str(i+1).zfill(2)+' •</span><h3>'+label+'</h3><span class="accordion-symbol" aria-hidden="true">+</span></summary><div class="expertise-answer"><p>'+esc(desc)+'</p>'+link('Découvrir cette expertise',key)+'</div></details>'
+  h+='<details'+(' open' if i==0 else '')+'><summary>'+('<span class="eyebrow">'+str(i+1).zfill(2)+' •</span>' if numbered else '')+'<h3>'+label+'</h3><span class="accordion-symbol" aria-hidden="true">+</span></summary><div class="expertise-answer"><p>'+esc(desc)+'</p>'+link('Découvrir cette expertise',key)+'</div></details>'
  return h+'</div>'
 
 def client_marquees():
@@ -191,7 +191,7 @@ def home():
  global page;page='index.html';ag=soup('agence');ho=soup('');ghd=DATA['projects'][3]
  b='<section class="masthead"><div class="masthead-meta"><p class="eyebrow">Agence de conseil<br>Marketing d’influence & Brand Content</p></div><h1 class="wordmark" aria-label="Anekdote">Anek<span class="italic">dote</span><span class="dot">.</span></h1></section>'
  b+='<section class="company-stage">'+picture(bg(ag.select_one('.page-header-banner-container')),'L’équipe Anekdote dans un escalier parisien',eager=True)+'<div class="company-overlay"><p class="eyebrow">Enchanté !</p><h2>Nous créons<br>vos <span class="italic">campagnes.</span></h2></div></section>'
- b+='<section class="section home-services"><div class="home-services-heading"><div><h2 class="section-title">L’idée.<br><span class="italic">Puis l’action.</span></h2></div><p class="lead">Nous créons vos campagnes pour accélérer votre notoriété et optimiser votre conversion.</p></div>'+accordion('home-accordion')+'</section>'
+ b+='<section class="section home-services"><div class="home-services-heading"><div><h2 class="section-title">L’idée.<br><span class="italic">Puis l’action.</span></h2></div><p class="lead">Nous créons vos campagnes pour accélérer votre notoriété et optimiser votre conversion.</p></div>'+accordion('home-accordion',numbered=False)+'</section>'
  b+='<section class="section clients"><div class="client-intro"><h2>Nous vous adorons,<br><span class="italic">c’est réciproque.</span></h2><p>Nous avons plus de 50 partenaires qui nous font confiance dans la beauté, la mode, la tech/app, la food et le retail.</p></div>'+client_marquees()+'</section>'
  b+='<section class="section home-agency"><div class="home-agency-photo media-frame reveal">'+picture(BASE+'/wp-content/uploads/2024/09/Design-sans-titre-3.png','Un moment partagé par l’équipe Anekdote')+'</div><div class="home-agency-copy"><h2 class="section-title">Une équipe<br><span class="italic">passionnée.</span></h2><p class="lead">L’échange est notre moteur, le partage est notre super-force, et la positivité est notre arme secrète.</p></div></section>'
  b+='<section class="section proof"><div class="proof-copy"><h2 class="section-title">La créativité.<br><span class="italic">Et son impact.</span></h2><p>Une équipe passionnée pour des campagnes sur-mesure et performantes.</p></div><div class="proof-kpis">'

diff --git a/docs/MODIFICATIONS.md b/docs/MODIFICATIONS.md
@@ -38,3 +38,7 @@ Les libellés de catégories des projets ne portent plus de préfixe numérique.
 Le manifeste change seul toutes les trois secondes lorsqu’il est visible. La frappe rapide ne masque pas le texte sémantique ; sa copie animée est ignorée par les lecteurs d’écran. Le cycle s’arrête hors de l’écran ou lorsque l’onglet est masqué. Avec le mouvement réduit, les six textes se présentent à la suite, sans minuterie ni boutons. Les autres carrousels restent manuels.
 
 Les biographies, anecdotes et goûts des sept personnes affichées sont comparés aux sources, ainsi que les 33 études de cas et leurs chiffres. Les suppressions demandées sur les pages d’expertise sont des exceptions ciblées. Les deux projets sans résultats publiés restent signalés ; aucun KPI n’est inventé. Le formulaire n’a pas été envoyé pendant les contrôles.
+
+## Complément : six annotations sur l’accueil
+
+Les index 01 • à 06 • de l’accordéon d’accueil sont retirés du HTML. Les titres et descriptions commencent au bord gauche de la section, sans colonne vide. Les commandes + et les liens des six expertises restent disponibles. La numérotation de l’accordéon de la page Expertises n’est pas modifiée.

diff --git a/docs/VALIDATION.md b/docs/VALIDATION.md
@@ -21,3 +21,7 @@ Les observations sont dans round4-browser-checks.json. Le rapport round3-browser
 ## Livraison
 
 Aucun score Lighthouse ni certification d’accessibilité n’est revendiqué. Les deux projets sans résultats publiés sont signalés, sans KPI fictif. Le code, médias et polices sont autonomes. Le workflow vérifie et prépare GitHub Pages ; l’activation du service dans le dépôt reste nécessaire. Un build réussi ne confirme pas une publication.
+
+## Complément : accordéon d’accueil sans numéros
+
+Les six index sont absents du DOM à 390 et 1456 px. Les six titres et les descriptions commencent sur le même bord gauche (20 px sur mobile, 61,15 px sur ordinateur), sans débordement horizontal. Les six liens restent présents. L’ouverture de Stratégie referme la première expertise. Voir round5-browser-checks.json et previews/accueil-expertises-desktop.jpg.
